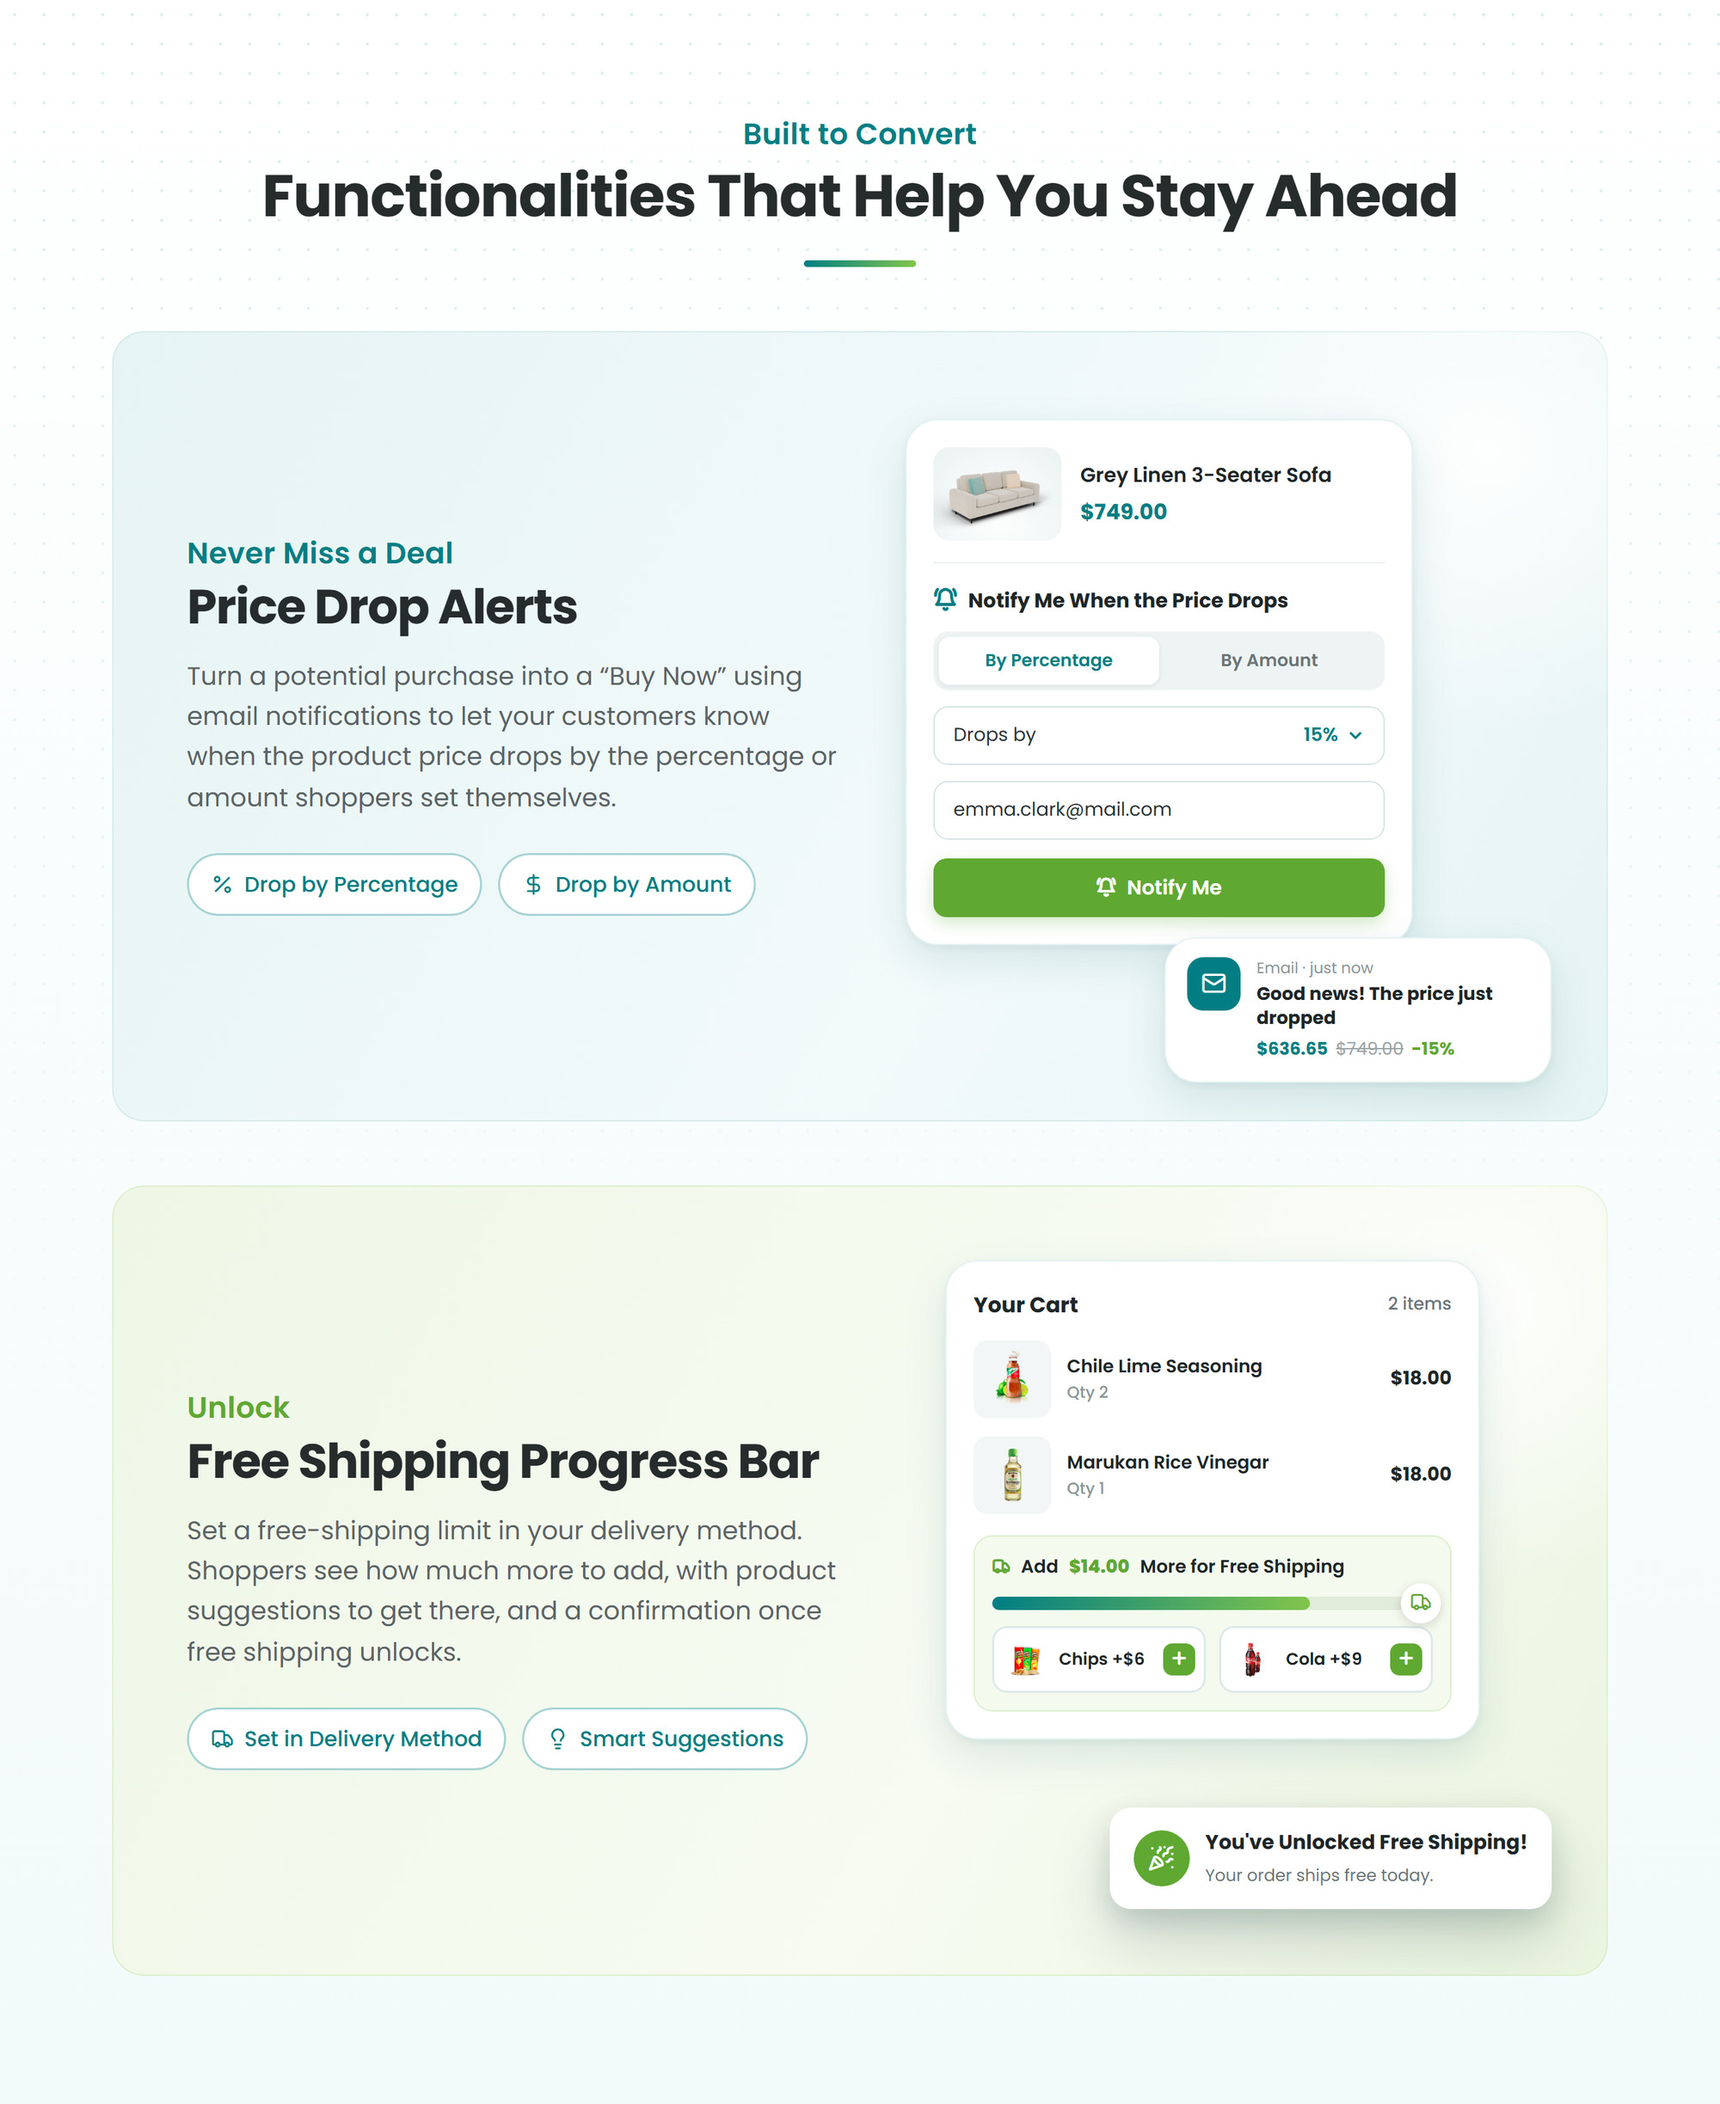
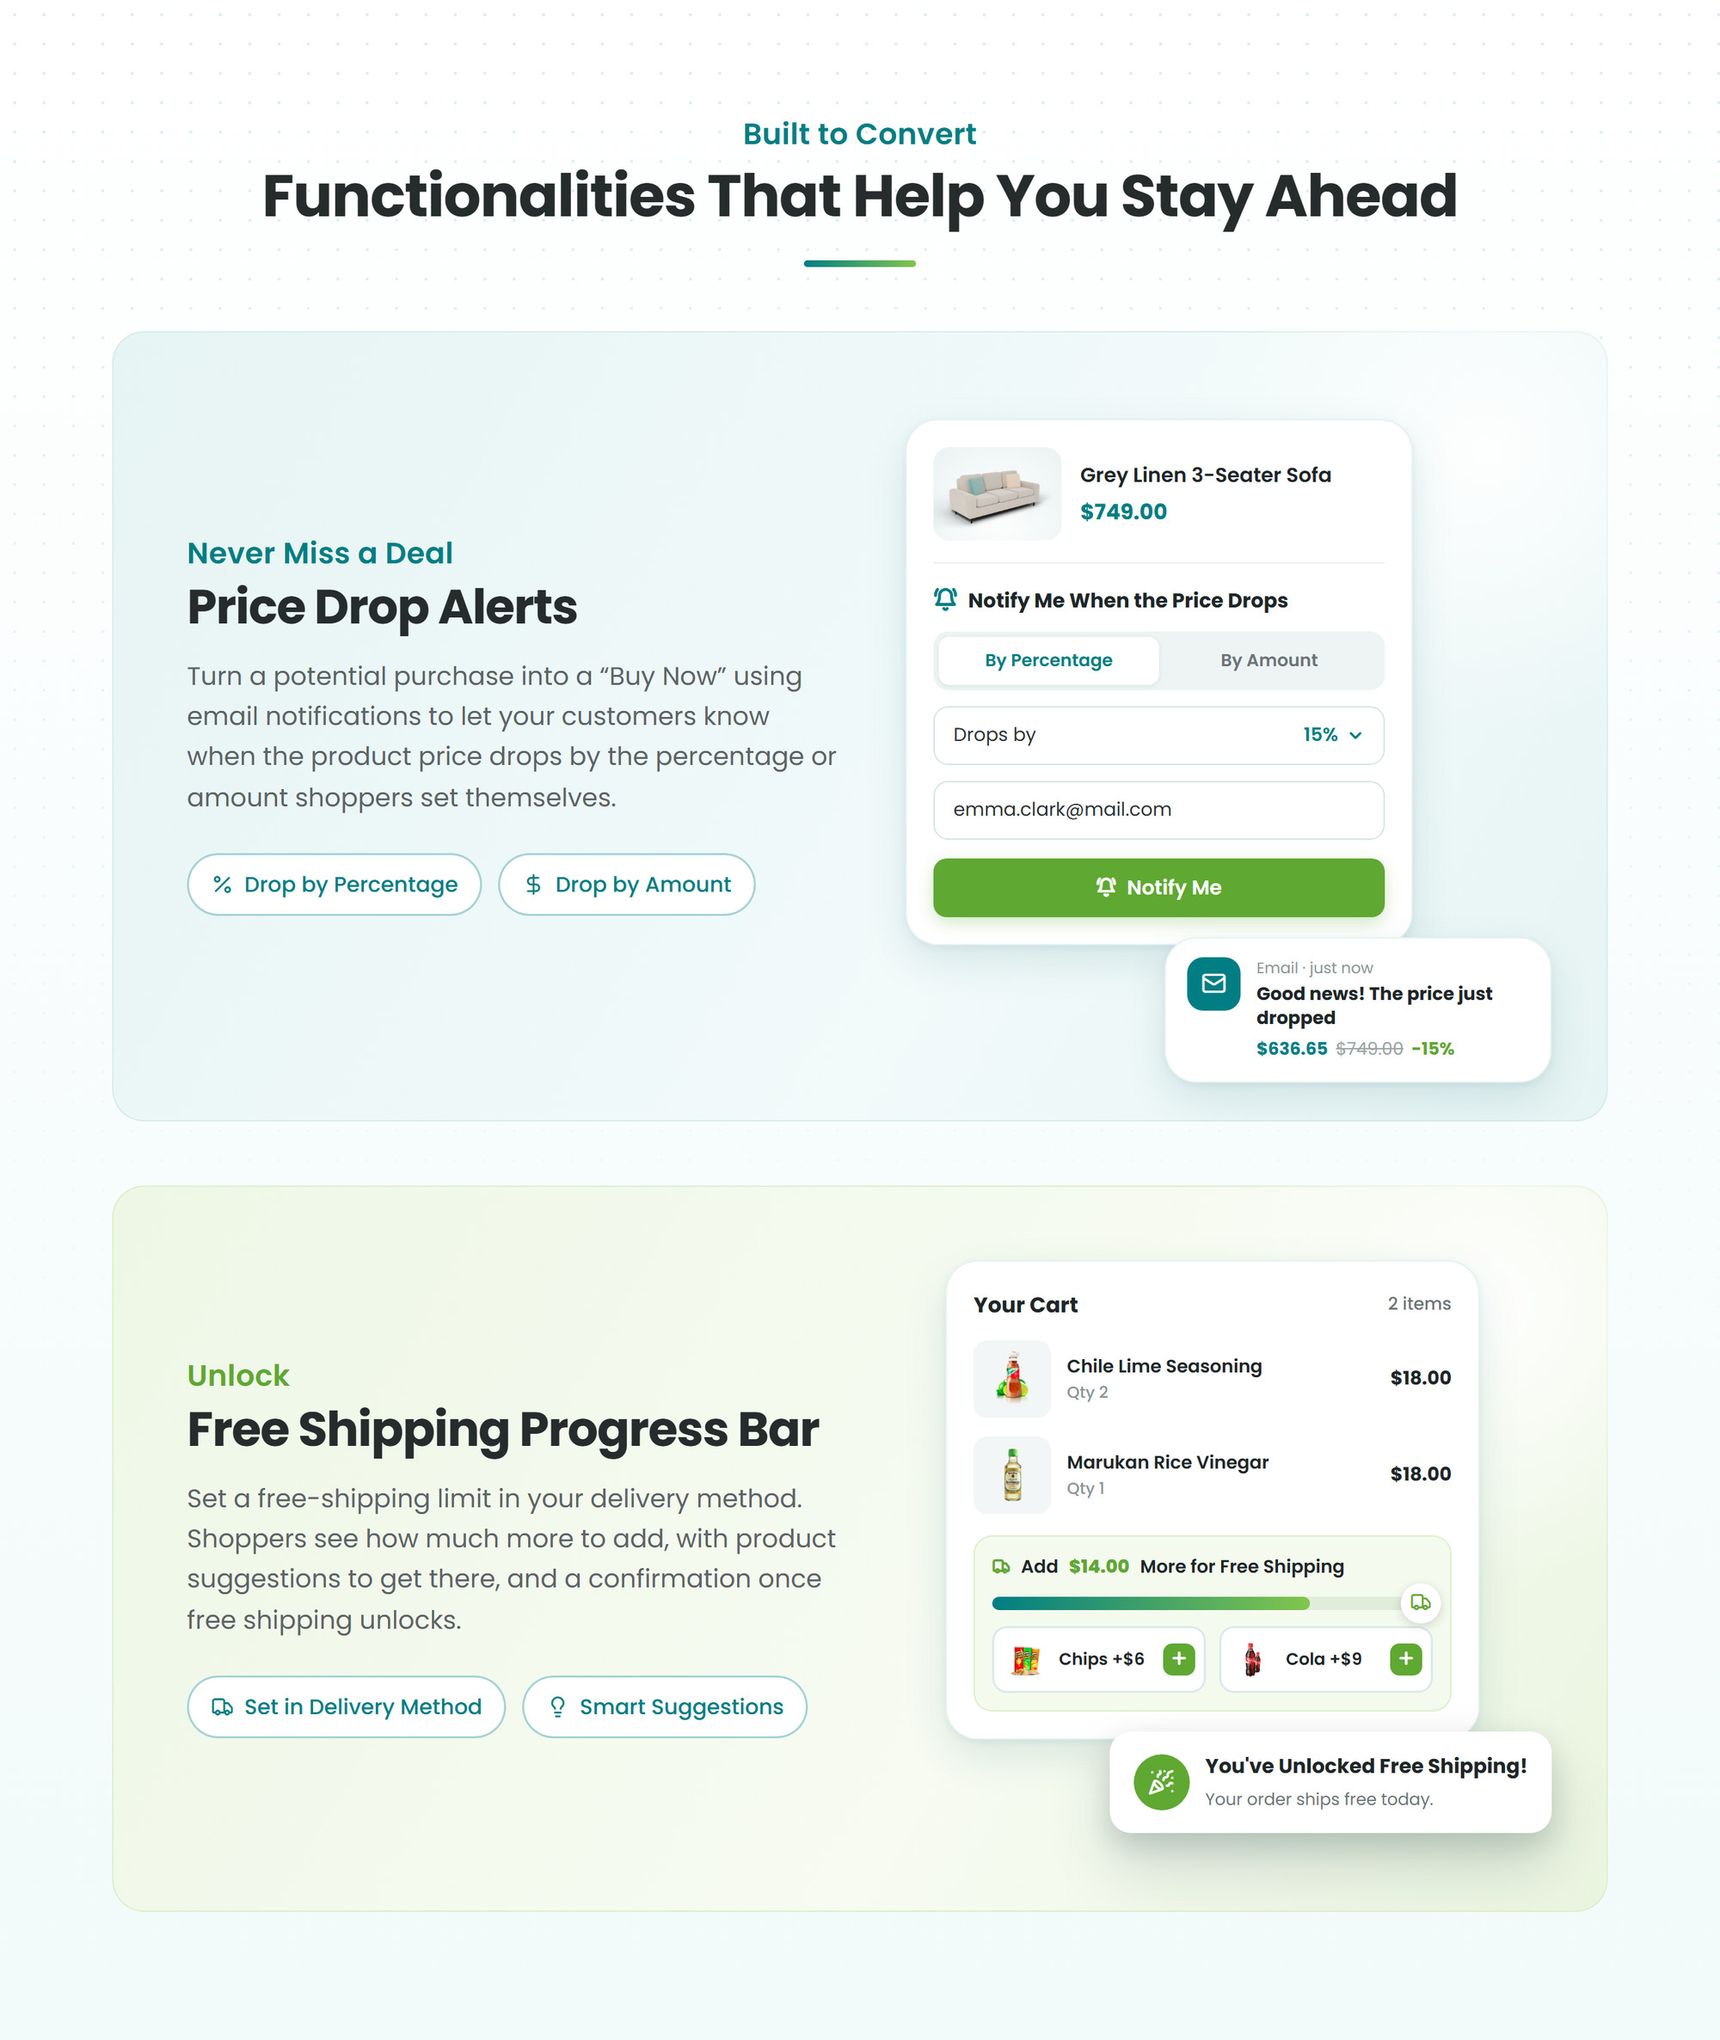
Stay Ahead: anchor free-shipping confirmation to the cart like the email card; balance panel heights

diff --git a/folds/04-stay-ahead.html b/folds/04-stay-ahead.html
@@ -52,7 +52,8 @@
   .sugg div { flex: 1; display: flex; align-items: center; gap: 8px; padding: 8px; border-radius: 11px; background: #fff; box-shadow: inset 0 0 0 1.5px #DCE8E8; font-size: 12.5px; font-weight: 600; color: #1F2627; }
   .sugg img { width: 34px; height: 34px; object-fit: contain; }
   .sugg .plus { margin-left: auto; width: 24px; height: 24px; border-radius: 7px; background: var(--green-btn); color: #fff; display: grid; place-items: center; font-family: lucide; font-size: 14px; }
-  .unlock { position: absolute; right: -14px; bottom: -6px; padding: 14px 18px; display: flex; gap: 12px; align-items: center; z-index: 3; border-radius: 16px; background: #fff; box-shadow: var(--shadow-lg); }
+  .fs .widget { height: 432px; }
+  .unlock { position: absolute; right: -14px; top: 353px; padding: 14px 18px; display: flex; gap: 12px; align-items: center; z-index: 3; border-radius: 16px; background: #fff; box-shadow: var(--shadow-lg); }
   .unlock .ib { width: 42px; height: 42px; border-radius: 50%; background: var(--green-btn); color: #fff; display: grid; place-items: center; font-family: lucide; font-size: 20px; }
   .unlock b { font-size: 15px; color: #1F2627; display: block; } .unlock span { font-size: 12.5px; color: #6B7576; }
 </style></head>
